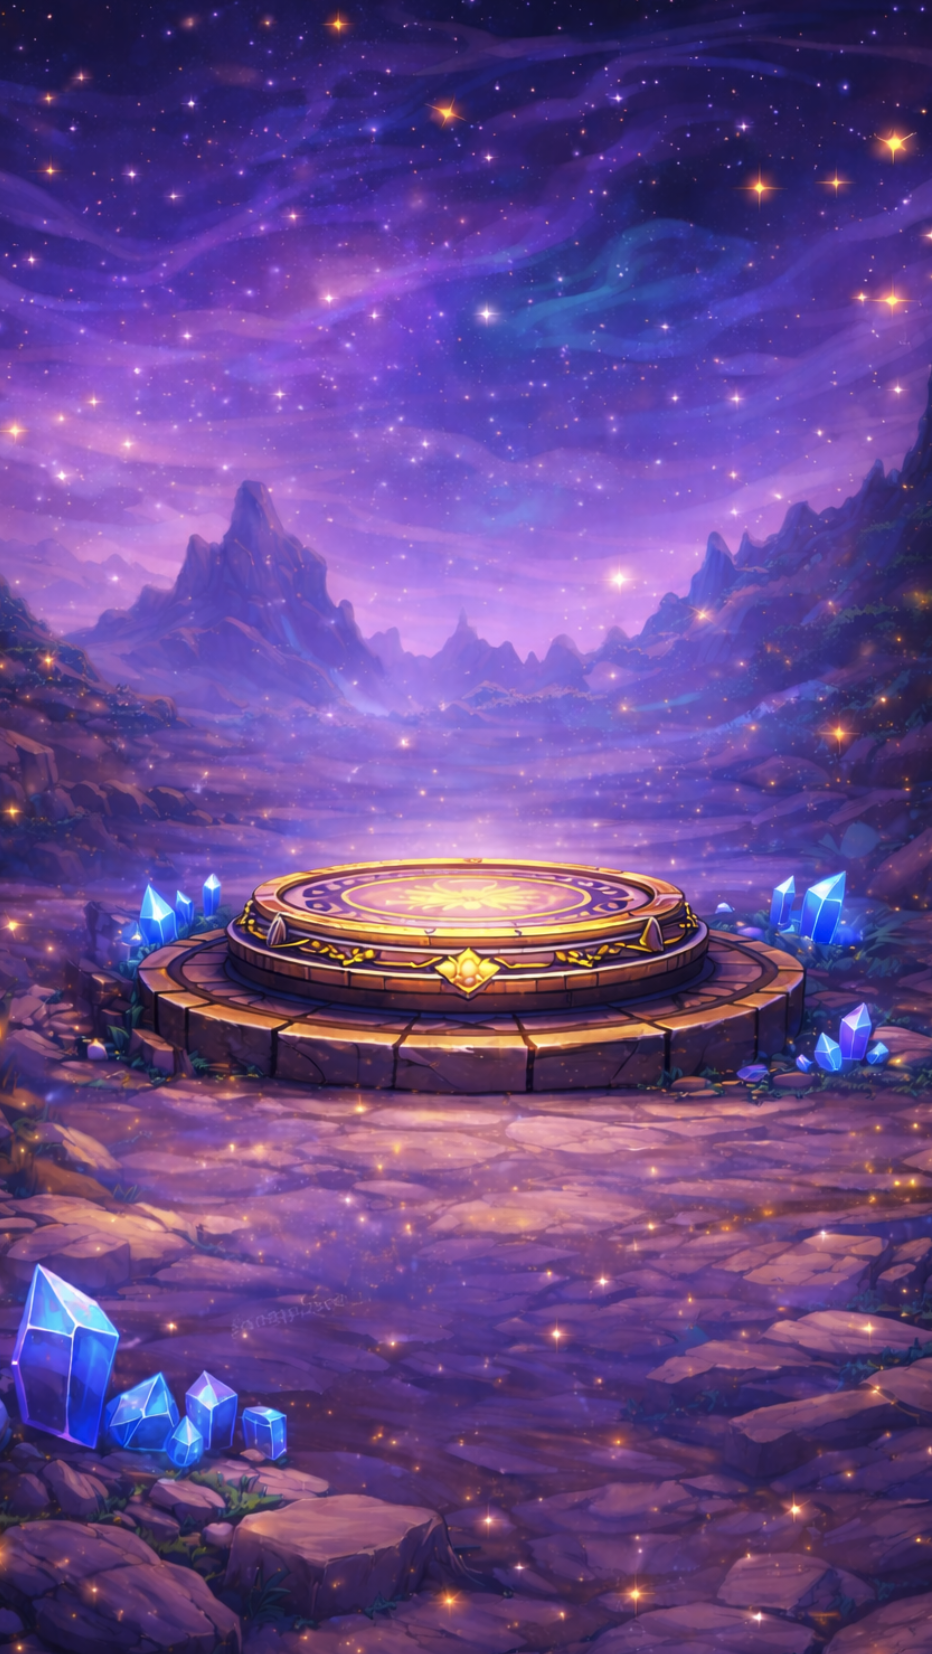
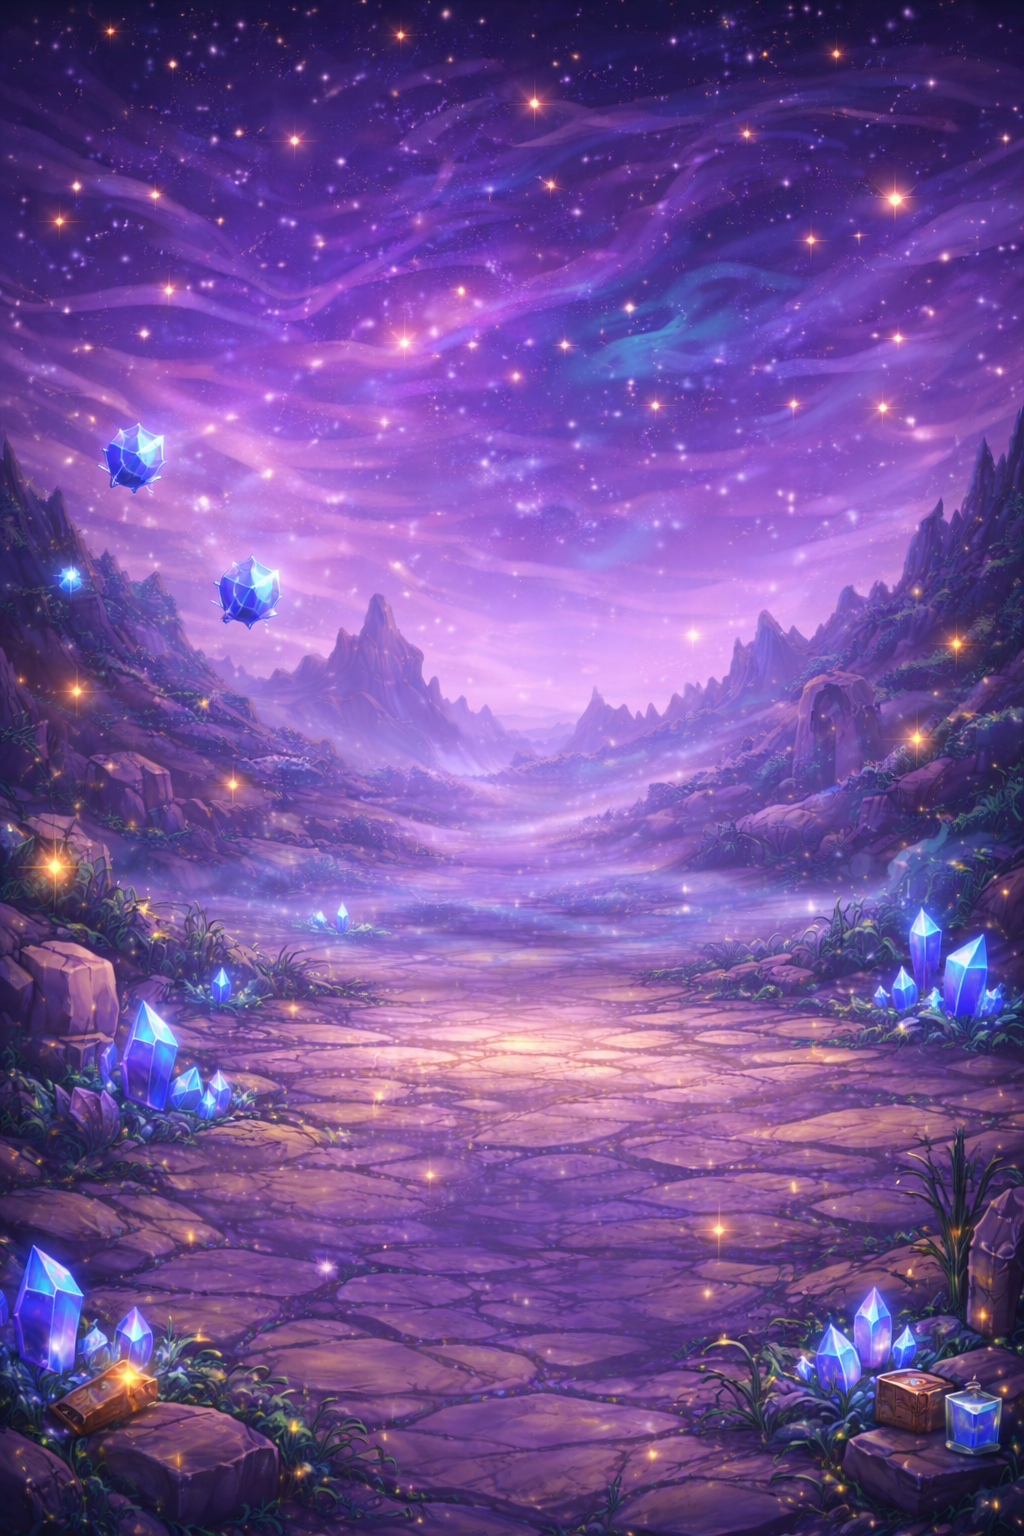
fix: landing page layout - center auth box, title at top, Sam in front
Made-with: Cursor

diff --git a/src/components/LandingPage/LandingPage.tsx b/src/components/LandingPage/LandingPage.tsx
@@ -229,50 +229,69 @@ function LandingShell({ children }: { children: React.ReactNode }) {
         display: 'flex',
         flexDirection: 'column',
         alignItems: 'center',
-        justifyContent: 'flex-start',
-        paddingTop: '8vh',
         overflow: 'auto',
         fontFamily: "'Nunito', sans-serif",
       }}
     >
+      {/* Title — closer to top */}
       <img
         src="/assets/title-logo.png"
         alt="Fraction Quest"
         style={{
-          width: '80%',
-          maxWidth: 420,
+          position: 'absolute',
+          top: 16,
+          left: '50%',
+          transform: 'translateX(-50%)',
+          width: '90%',
+          maxWidth: 567,
           height: 'auto',
           objectFit: 'contain',
-          marginBottom: 24,
+          zIndex: 1,
         }}
       />
 
+      {/* Auth box — centered in the viewport, offset 50px down */}
       <div
         style={{
+          position: 'absolute',
+          top: 'calc(50% + 50px)',
+          left: '50%',
+          transform: 'translate(-50%, -50%)',
           width: '85%',
           maxWidth: 380,
-          background: 'linear-gradient(180deg, #faf3e0 0%, #f5e6c8 100%)',
-          borderRadius: 20,
-          padding: '32px 28px 24px',
-          boxShadow: '0 8px 40px rgba(0,0,0,0.4)',
-          display: 'flex',
-          flexDirection: 'column',
-          alignItems: 'center',
+          padding: 24,
+          boxSizing: 'border-box',
+          zIndex: 1,
         }}
       >
-        {children}
+        <div
+          style={{
+            background: 'linear-gradient(180deg, #faf3e0 0%, #f5e6c8 100%)',
+            borderRadius: 20,
+            padding: '32px 28px 24px',
+            boxShadow: '0 8px 40px rgba(0,0,0,0.4)',
+            display: 'flex',
+            flexDirection: 'column',
+            alignItems: 'center',
+          }}
+        >
+          {children}
+        </div>
       </div>
 
+      {/* Sam — closer to lower right corner, in front */}
       <img
         src="/assets/sam-waving.png"
         alt="Sam the Math Wizard"
         style={{
           position: 'fixed',
-          bottom: 0,
-          right: 0,
-          height: 220,
+          bottom: -40,
+          right: -20,
+          height: 380,
           objectFit: 'contain',
+          objectPosition: 'bottom right',
           pointerEvents: 'none',
+          zIndex: 10,
         }}
         onError={(e) => { (e.target as HTMLImageElement).style.display = 'none'; }}
       />
